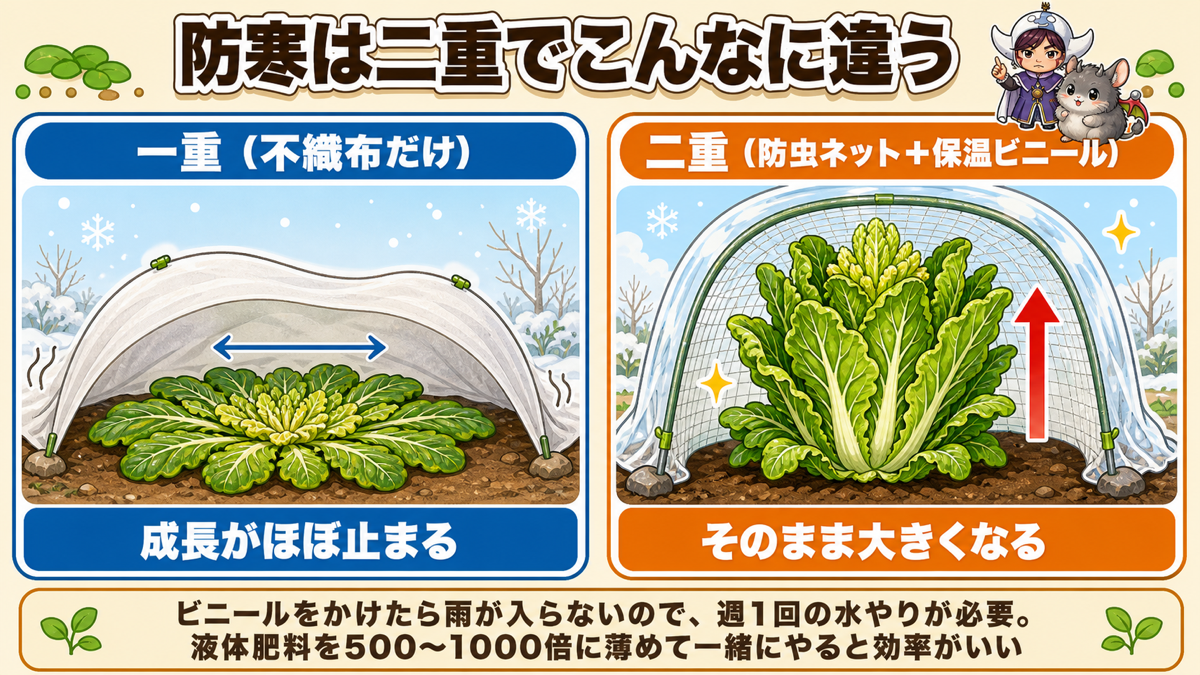
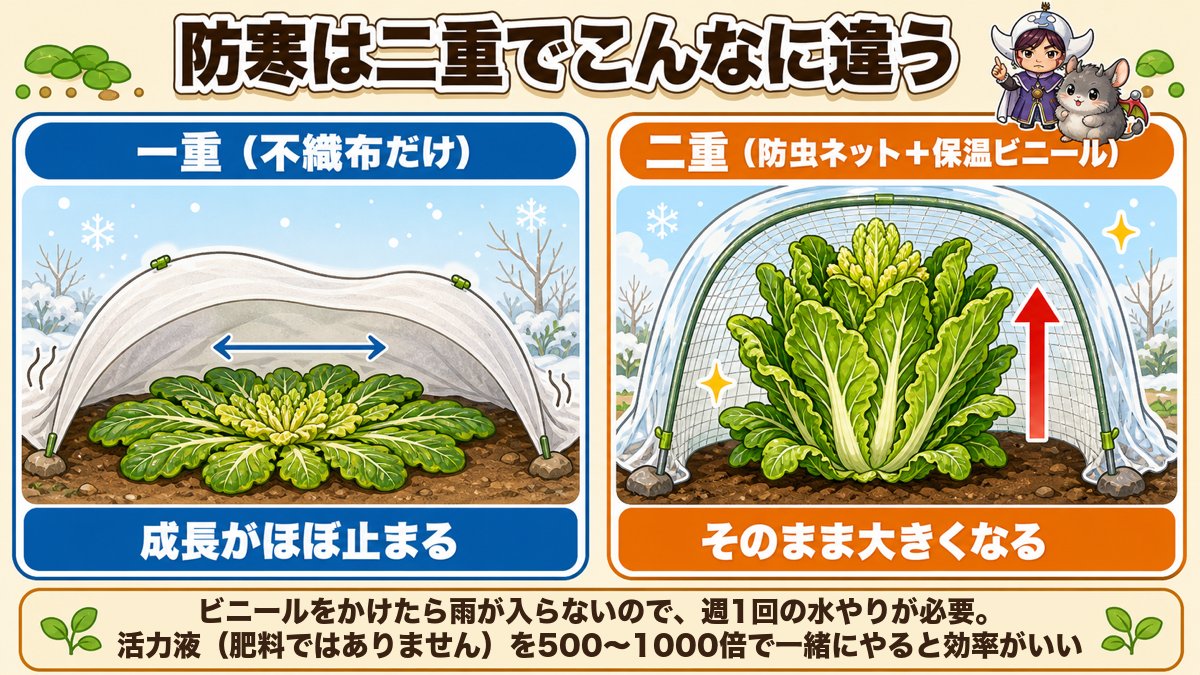
秋の葉物: ブログ版にも本日の修正を反映（3つ目の出力経路の取りこぼし）
図書館とブログの2経路のうち、ブログ側だけ修正が入っていなかった。
- 「液体の肥料を混ぜる」→「活力液（肥料ではありません）」に全面修正。
  出典動画は「これ肥料ではありません」「活力液みたいな感じで使ってる」と明言しており、
  記事の論旨が逆だった。元肥がある場合の窒素過多の注意も追記。
- 本人判定✕の体験談3件を一般化（ほうれん草の一重/二重の比較・私の畑では3回・その場で味見）
- 図4の画像を作り直した版に差し替え（下帯が「活力液（肥料ではありません）」）

検証: 旧文の残り0／タグ数の増分は p+1・strong+3（A欄を3段落→4段落にしたぶん）のみ

Changed region(s): [[0.0925, 0.8711, 0.925, 0.9956]]

diff --git a/articles/13-hamono.html b/articles/13-hamono.html
@@ -90,8 +90,8 @@
   <p><strong>③脇芽が10〜15cm伸びたら、根元からポキッと折って収穫</strong></p>
   <p>ハサミも要りません。指でちょっとひねると簡単に折れます。</p>
   <p><strong>④また新しい脇芽が出てくる</strong></p>
-  <p>そして②に戻ります。これを繰り返すと、うまくいけば春まで穫り続けられます。私の畑では、だいたい3回は穫れています。</p>
-  <p>ちなみに①で摘んだ先端、捨てないでください。普通に食べられます。というかここがいちばん柔らかいので、私はその場で味見してしまいます☺</p>
+  <p>そして②に戻ります。これを繰り返すと、うまくいけば春まで穫り続けられます。目安は3回くらいです。</p>
+  <p>ちなみに①で摘んだ先端、捨てないでください。普通に食べられます。というかここがいちばん柔らかいので、その場で食べてしまう人も多いです笑</p>
 
   <h3>小松菜・水菜は「外側から」</h3>
   <p>小松菜や水菜も同じ考え方でいけます。こちらは脇芽ではなく、<strong>外側の葉から順番に</strong>穫ります。</p>
@@ -149,19 +149,20 @@
 
   <h2 id="s5">防寒は「二重」にすると、見た目で分かるくらい違います</h2>
   <img src="../images/13/葉物_図4_一重と二重.webp" alt="防寒は一重と二重でこんなに違う">
-  <p>これは実際に見たときちょっと驚きました。</p>
-  <p>同じ日にまいた同じ品種のほうれん草を、片方は不織布だけ、もう片方は防虫ネットと保温ビニールの二重にしてみたんです。</p>
-  <p><strong>一重</strong>のほうは、葉が地面にべたっと張りついていました。上に伸びずに、放射状に広がっている感じです。</p>
-  <p><strong>二重</strong>のほうは、葉が立ったまま、ふつうに上へ伸び続けていました。</p>
-  <p>同じ畑で、同じ日にまいた株です。それでもここまで違う。</p>
+  <p>これは並べて比べると、はっきり違いが出るところです。</p>
+  <p>同じ日にまいた同じ品種のほうれん草を、片方は不織布だけ、もう片方は防虫ネットと保温ビニールの二重にする。</p>
+  <p><strong>一重</strong>のほうは、葉が地面にべたっと張りつきます。上に伸びずに、放射状に広がっていく感じです。</p>
+  <p><strong>二重</strong>のほうは、葉が立ったまま、ふつうに上へ伸び続けます。</p>
+  <p>同じ畑で、同じ日にまいた株。それでもここまで違います。</p>
   <p>なので寒くなってきたら、<strong>不織布・防虫ネット・保温ビニールを重ねて</strong>みてください。1枚増やすだけで、収穫までの時間がぜんぜん変わります。</p>
 
   <h3>ビニールをかけたら、水やりが必要になります</h3>
   <p>ひとつだけ注意点を。</p>
   <p>ビニールで覆うと、雨が入らなくなります。つまり自分で水をやらないといけません。目安は<strong>1週間に1回</strong>です。</p>
-  <p>そして、これは私のおすすめなんですが、その水やりのときに<strong>液体の肥料を薄めて混ぜて</strong>しまいます。</p>
-  <p>有機でやっていると追肥が面倒なんですよね。粒の肥料をまいても、分解に1か月以上かかったりする。でも水やりのついでなら手間はゼロです。</p>
-  <p>薄さは<strong>500〜1000倍</strong>くらい。1週間に1回、じょうろ1杯分だけなので、1本買えば1年もちます。これを続けていると、葉の艶がはっきり変わってきますよ。</p>
+  <p>そして、その水やりのときに使えるのが「<strong>活力液</strong>」です。これは肥料ではありません。</p>
+  <p>さっき書いたとおり、葉物に追肥はほとんど要りません。<strong>元肥を入れているならなおさらで、そこに液体肥料を足すと窒素が多くなりすぎて、かえって虫を呼びます</strong>。</p>
+  <p>活力液はそこが違います。肥料成分ではなく、根の張りを助けるほうの資材です。有機でやっていると追肥そのものがしにくい（粒をまいても分解に1か月以上かかる）ので、<strong>肥料を足さずに</strong>生育を後押しできるのが便利なんです。</p>
+  <p>薄さは<strong>500〜1000倍</strong>くらい。1週間に1回、じょうろ1杯分だけなので、1本買えば1年もちます。肥料ではないので、多少濃くても大きな問題にはなりません。</p>
 
   <h2 id="s6">学ぶ：寒いと葉っぱが地面に張りつくのはなぜ？🔬</h2>
   <p>理科の時間です。さっき出てきた「葉が地面に張りつく」やつの話をします。</p>
@@ -187,7 +188,7 @@
     <li>摘み取りたいなら<strong>中葉春菊</strong>。寒さ重視なら大葉春菊。苦手な人はサラダ春菊。レタスはリーフ系を</li>
     <li>冬の失敗5つ＝防寒不足・穫り遅れ・品種違い・水のやりすぎ・不織布なし</li>
     <li>寒い時期の<strong>種まきは午前中</strong>に、<strong>水は最初の1回だけ</strong></li>
-    <li>防寒は<strong>二重</strong>に。ビニールをかけたら週1回の水やり（液肥を混ぜると一石二鳥）</li>
+    <li>防寒は<strong>二重</strong>に。ビニールをかけたら週1回の水やり（<strong>活力液</strong>を混ぜると一石二鳥。肥料ではありません）</li>
   </ul>
   <p>まずは中葉春菊を1袋まいて、先端を摘むところまでやってみてください。脇芽がわっと出てきたとき、たぶん「うわ、ほんとに出た」ってなりますよ🥬</p>
   <p>次回は、寒くなってからが本番の根菜。冬のにんじんを甘くする話をします🥕</p>
